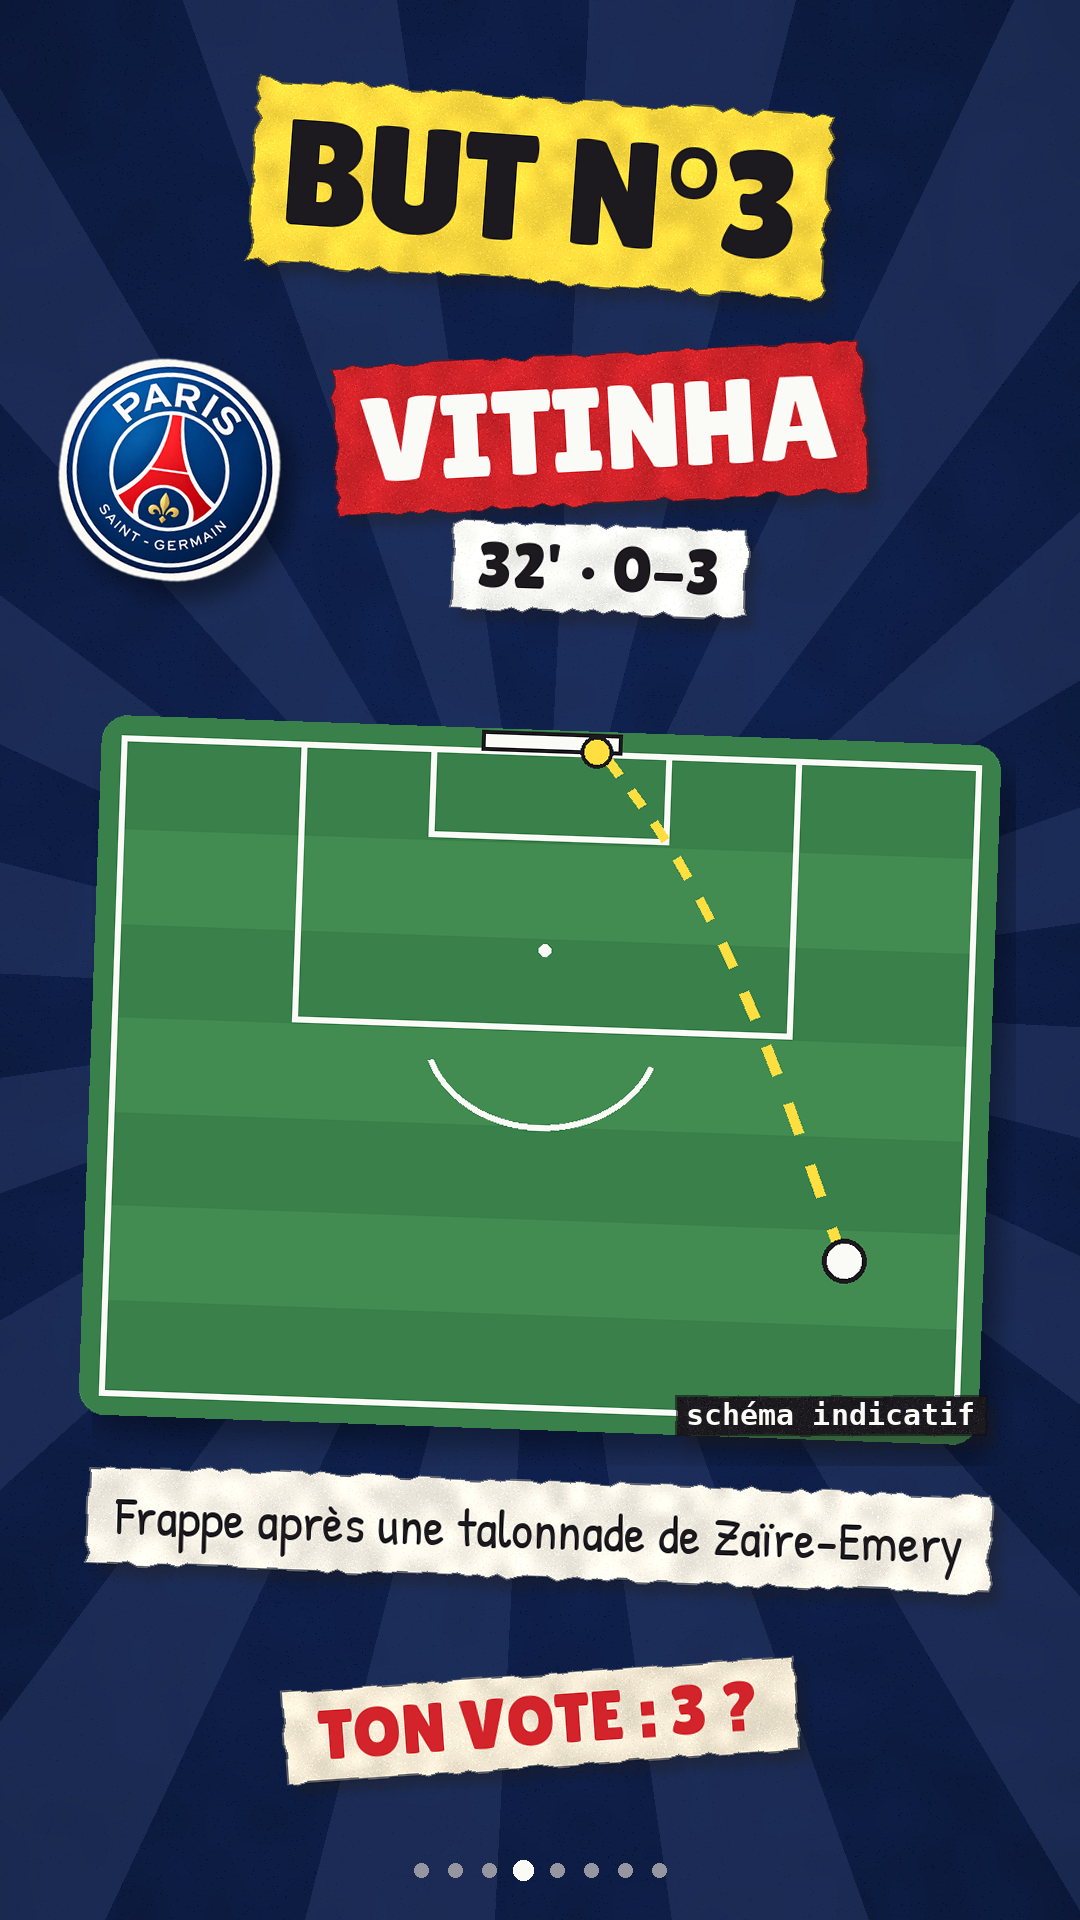
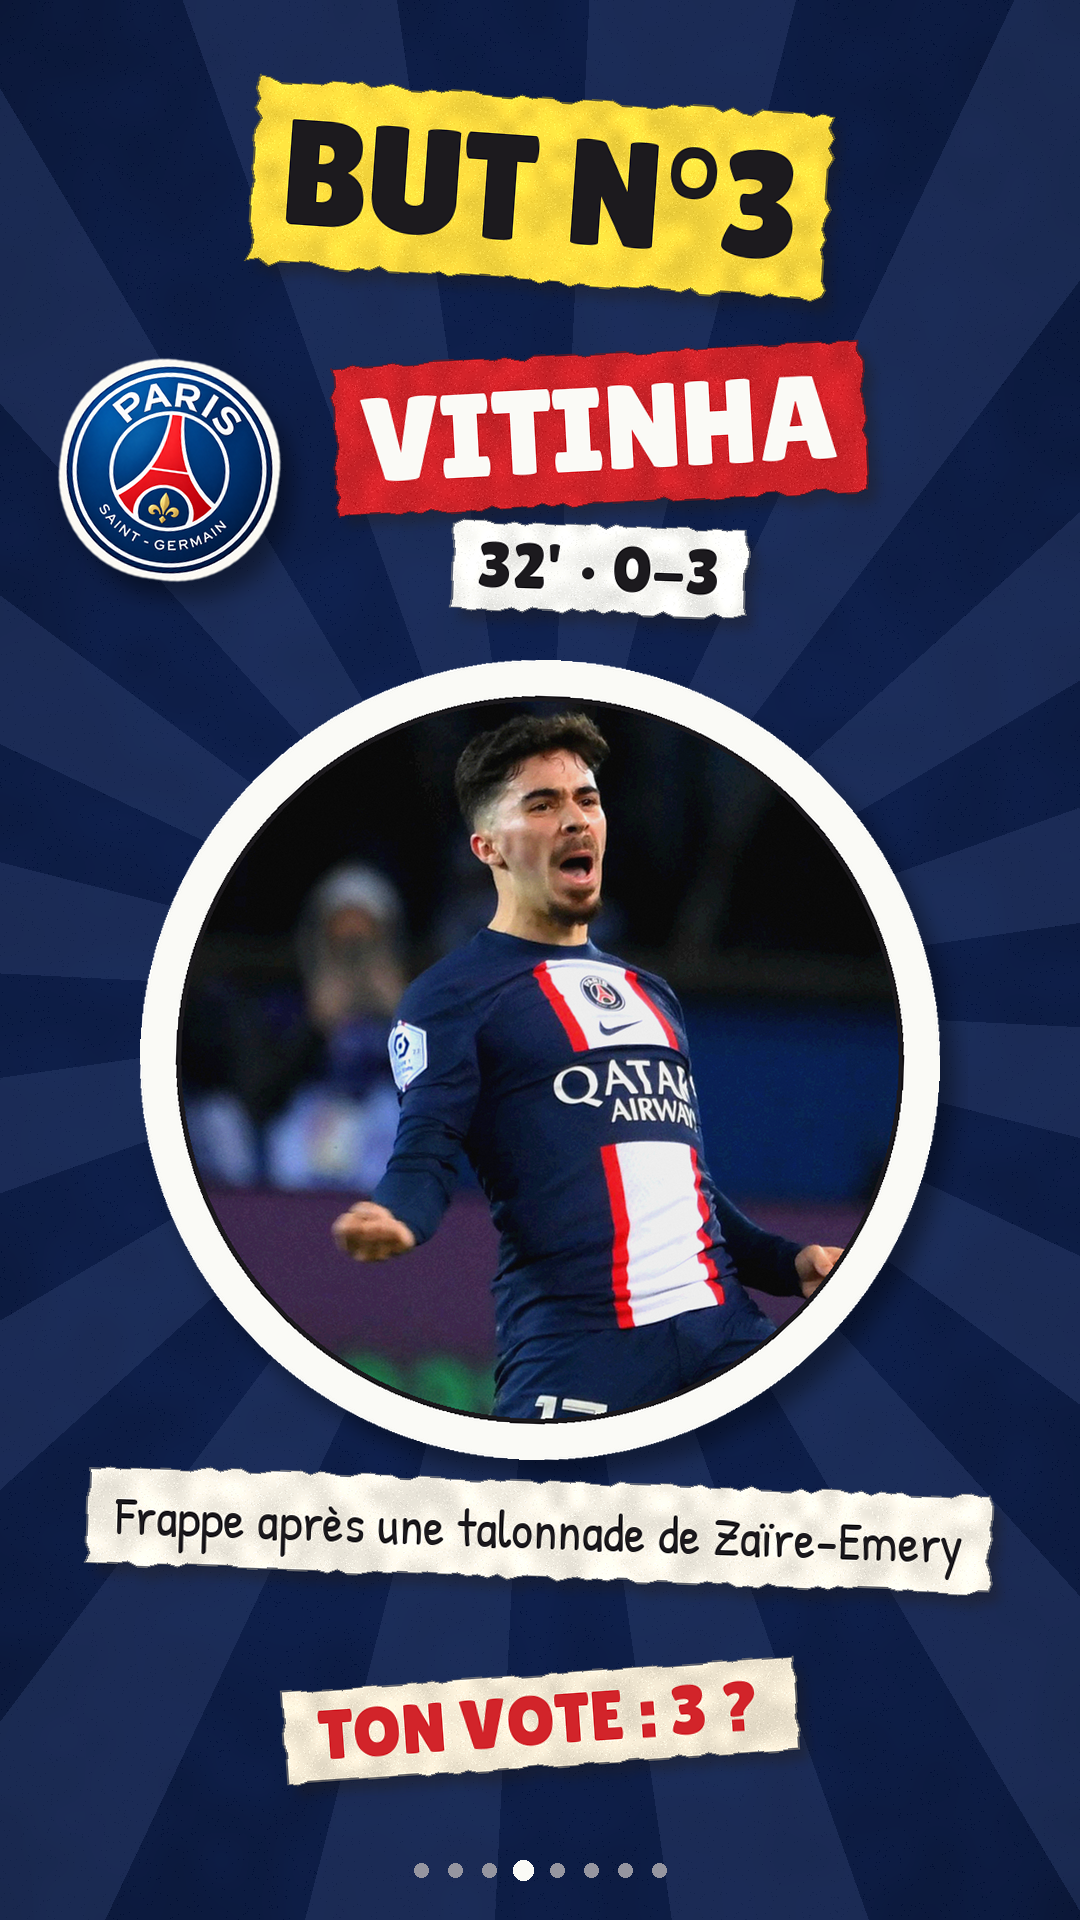
Carrousel plus beau but : grosses icônes joueurs à la place du schéma
Claude-Session: https://claude.ai/code/session_01DXpnpJ9jwFkxmTPwukopFs

diff --git a/episodes/carrousel_buts_city_psg/carrousel_buts_city_psg.py b/episodes/carrousel_buts_city_psg/carrousel_buts_city_psg.py
@@ -1,5 +1,5 @@
 """CARROUSEL « ÉLECTION DU PLUS BEAU BUT » — Man City 2-4 PSG (LDC, 2e journée, 14/10/2026). 8 slides, 0 crédit.
-Pas d'images de match (droits) : schéma papier de chaque but (demi-terrain vu du dessus, trajectoire), écussons autocollants.
+Pas d'images de match : grosse icône ronde du buteur (photos fournies -> scripts/icone_joueur.py, assets/psg_city), écussons autocollants.
 Buts (footmercato.net + eurosport.fr) : 13' Doué, 15' Dembélé (tête), 32' Vitinha, 53' Haaland, 63' Akliouche, 75' Haaland.
 
   python3 episodes/carrousel_buts_city_psg/carrousel_buts_city_psg.py output/carrousel_buts_city_psg
@@ -90,9 +90,8 @@ def slides():
         sticker(cv, crest(club), 170, 470, 230, -8)
         big(who, f"cbw{n}", 120, BLANC, ROUGE if club == "psg" else NOIR).draw(cv, 0, 600, 430, 1, 3)
         big(f"{mn}  •  {sc}", f"cbm{n}", 64, NOIR, BLANC).draw(cv, 0, 600, 570, 1, -2)
-        card, sh = schema(cv, shot, kind, n)
-        cv.paste(sh, (CX - card.width//2 + 14, 1080 - card.height//2 + 20), sh); cv.paste(card, (CX - card.width//2, 1080 - card.height//2), card)
-        LBL("schéma indicatif", f"cbi{n}", font("mono", 30), BLANC, NOIR, padx=10, pady=2, rough=1).draw(cv, 0, 830, 1415, 1, 0)
+        icon = {"DOUÉ": "doue", "DEMBÉLÉ": "dembele", "VITINHA": "vitinha", "HAALAND": "haaland", "AKLIOUCHE": "akliouche"}[who]
+        sticker(cv, A("psg_city", f"{icon}.png"), CX, 1060, 800, (-3, 2, -2, 3, -2, 2)[i])
         TAG(desc, f"cbd{n}", PAL["paper"], NOIR, 54, maxw=920).draw(cv, 0, CX, 1530, 1, -2)
         STAMP(f"TON VOTE : {n} ?", f"cbv{n}", ROUGE, 70).draw(cv, 0, CX, 1720, 1, 4)
         page(cv, i + 1, N); out.append(cv)

diff --git a/scripts/icone_joueur.py b/scripts/icone_joueur.py
@@ -1,0 +1,18 @@
+"""Photo -> grosse icône ronde « autocollant » (couleurs réhaussées, légère postérisation, grain papier, bord blanc épais).
+  python3 scripts/icone_joueur.py in.png out.png x0,y0,x1,y1 (fractions, recadrage carré conseillé)"""
+import sys, random
+from PIL import Image, ImageDraw, ImageEnhance, ImageOps, ImageFilter
+im = Image.open(sys.argv[1]).convert("RGB")
+f = [float(v) for v in sys.argv[3].split(",")]
+im = im.crop((int(f[0]*im.width), int(f[1]*im.height), int(f[2]*im.width), int(f[3]*im.height)))
+S = 820; side = min(im.size); im = im.crop(((im.width - side)//2, (im.height - side)//2, (im.width + side)//2, (im.height + side)//2)).resize((S, S), Image.LANCZOS)
+im = ImageEnhance.Color(ImageEnhance.Contrast(im).enhance(1.15)).enhance(1.25)
+im = ImageOps.posterize(im, 5)
+g = Image.effect_noise((S, S), 30).convert("L").point(lambda v: 128 + (v - 128)//3)
+im = Image.blend(im, Image.merge("RGB", (g, g, g)), .08)
+B = 44; out = Image.new("RGBA", (S + 2*B, S + 2*B), (0, 0, 0, 0)); d = ImageDraw.Draw(out)
+d.ellipse([0, 0, S + 2*B - 1, S + 2*B - 1], fill=(250, 250, 246, 255))
+m = Image.new("L", (S, S), 0); ImageDraw.Draw(m).ellipse([0, 0, S - 1, S - 1], fill=255)
+ph = im.convert("RGBA"); ph.putalpha(m); out.alpha_composite(ph, (B, B))
+d.ellipse([B - 3, B - 3, B + S + 2, B + S + 2], outline=(28, 26, 30), width=6)
+out.save(sys.argv[2])
